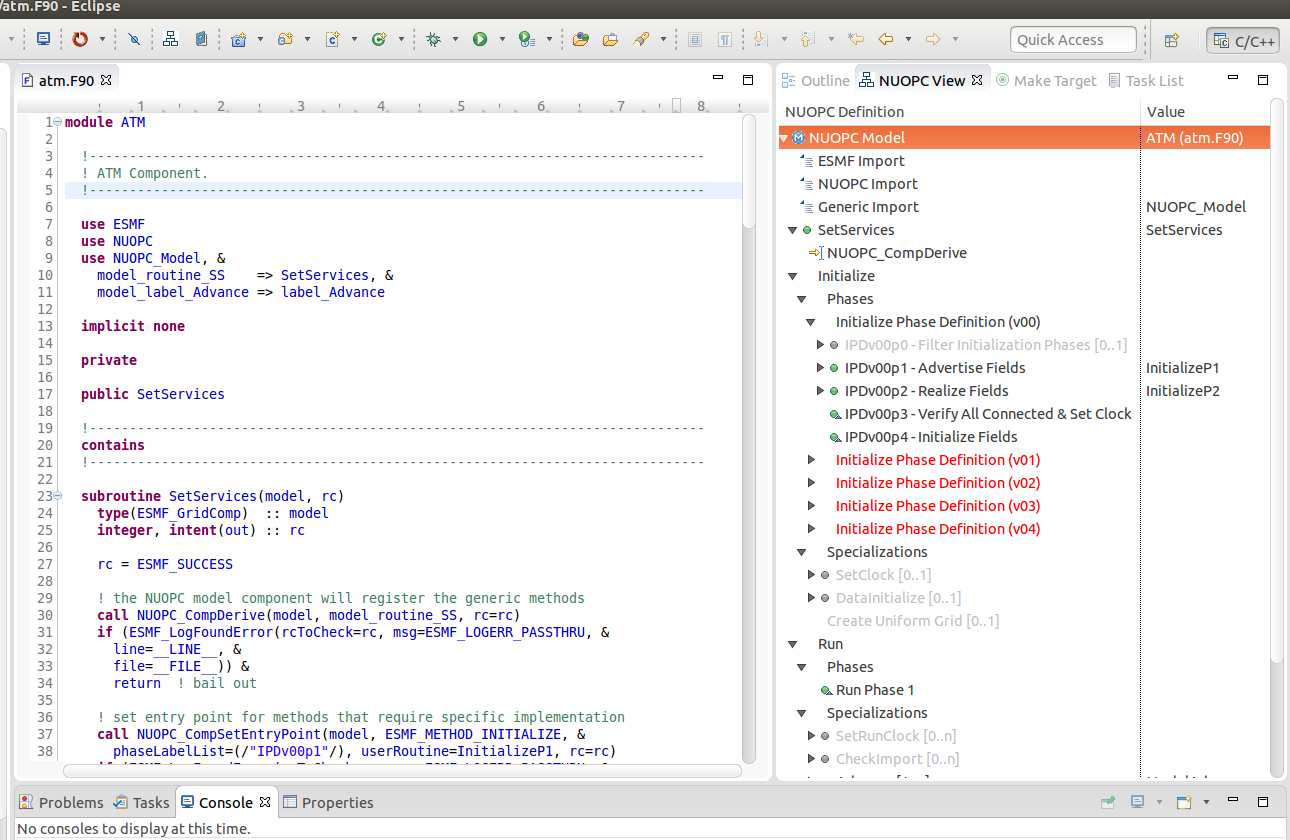
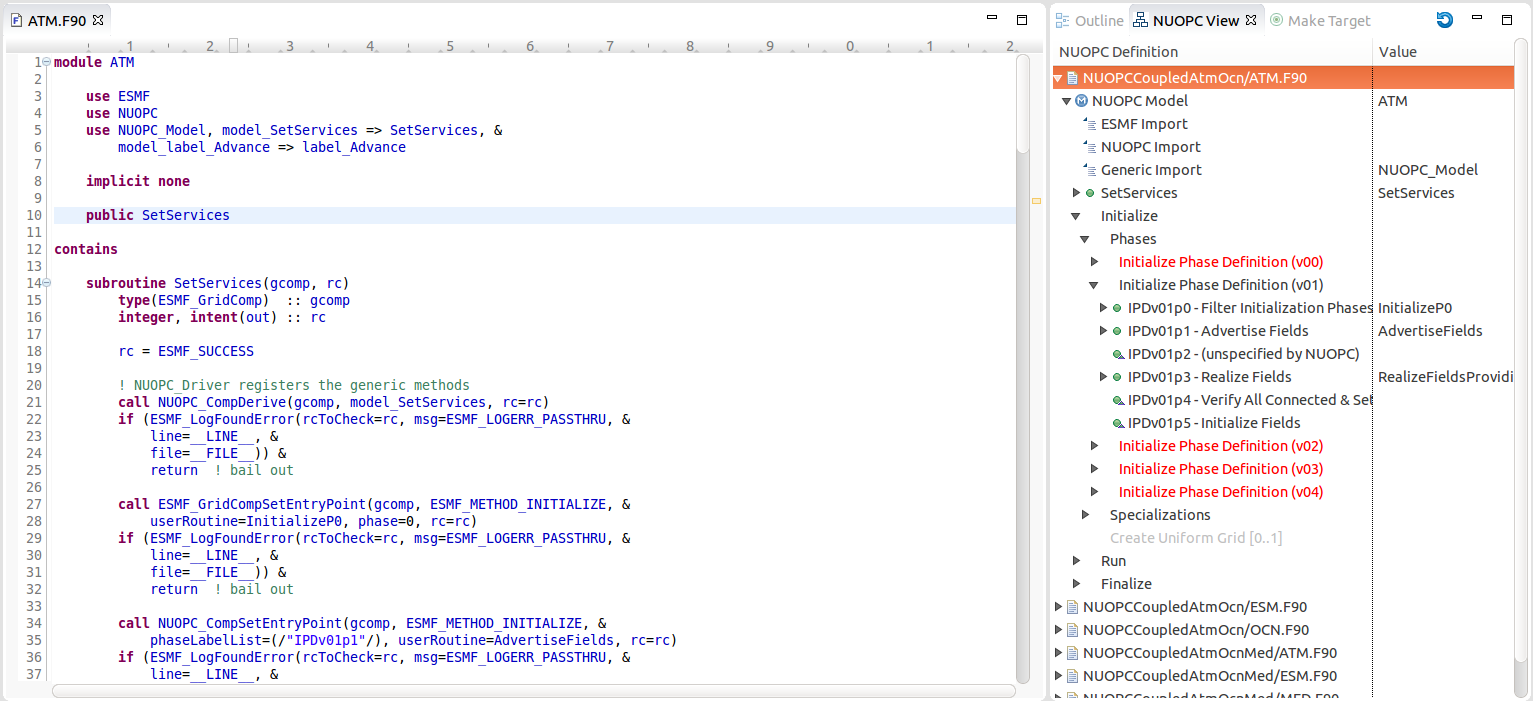
Updates to documentation

Changed region(s): [[0.0, 0.0, 1.0, 1.0], [0.8682, 0.2097, 0.9612, 0.2996]]

diff --git a/doc/howto.rst b/doc/howto.rst
@@ -151,14 +151,10 @@ The analysis does not descend into the model code itself.
 Once the higher level representation is obtained, Cupid
 is able to provide NUOPC-aware capabilities, such as basic validation
 of correct API usage and in-place code generation--i.e., weaving new code
-into the correct places of an existing source file.
+into the correct places of an existing source file. The reverse engineering 
+analysis phase happens automatically as a background process and an
+index of NUOPC components in the workspace is maintained.
 
-The reverse engineering analysis phase happens automatically as a background
-process when a file is opened that contains code for a NUOPC component.  A basic
-check is done to determine if the file is likely to be a NUOPC component. The
-check is to see that if the file contains Fortran code and if so that it
-imports (uses) one of the generic NUOPC modules (``NUOPC_Model``, 
-``NUOPC_Mediator``, or ``NUOPC_Driver``). 
 
 Show the NUOPC View
 ^^^^^^^^^^^^^^^^^^^
@@ -199,16 +195,22 @@ There are other ways to show the NUOPC View:
   * The NUOPC View can be accessed from the 
     **Window -> Show View -> Other** menu
         
-The NUOPC View will automatically synchronize with the editor that
-has the focus.  It will also refresh whenever you save the file
-active in the editor.  (The file will be re-analyzed in the background.)  
-If a file does not contain a NUOPC component, the NUOPC View will be blank.
+The NUOPC View will automatically refresh itself as files are changed
+and saved in the workspace.  It is also possible to force a refresh
+of the NUOPC View using the refresh button (blue circular arrow) in the
+top right corner of the NUOPC View.  This will first ensure that the
+Fortran analysis database is up to date and then it will rebuild the
+index of NUOPC components in the workspace.
+
 
 Elements in the NUOPC View outline
 ^^^^^^^^^^^^^^^^^^^^^^^^^^^^^^^^^^
 
-The outline shown in the NUOPC View in a tree where each element
-represents something in the source code, such as a SetServices subroutine,
+The top-level element in the NUOPC View tree are files in the workspace
+that contain code for a NUOPC component.  The first element under each 
+file indicates that type of component (Model, Driver, or Mediator).
+Sub-elements underneath the component type 
+represent something in the source code, such as a SetServices subroutine,
 a NUOPC initialization subroutine, a specialization point subroutine,
 imports of NUOPC generic modules, or calls into the NUOPC API. Many
 of the elements have small icons: a blue circle with an M maps to a
@@ -288,10 +290,7 @@ to use Cupid to generate skeleton code for missing elements.
    Cupid's reverse engineering and validation engines are based on
    static source code analysis.  The engine depends on an internal program database
    (Virtual Program Graph or VPG) provided by the Photran plugin for Eclipse. 
-   If a source file does not contain correct Fortran code, the internal
-   parser will fail and the reverse engineering analysis will not
-   be executed at all, resulting in a blank NUOPC View outline.
-   
+     
    There are limitations to static analysis giving rise to false negatives--i.e.,
    reporting a validation issue when in fact the NUOPC component will behave
    correctly.  For example, in some cases the reverse engineering engine 
@@ -309,7 +308,6 @@ to use Cupid to generate skeleton code for missing elements.
    will be correctly reverse engineered.   
    
   
-
 
 .. _generate-code:
 
@@ -537,9 +535,9 @@ documentation viewer, either click on the Show NUOPC Doc View button in the
 toolbar or from the menu select **Window -> Show View -> Other** and select
 the *NUOPC Doc* view in the list.
 
-The documentation viewer will automatically synchronize with the current outline
-in the NUOPC View.  For example, if the current component in the NUOPC View
-outline is a NUOPC Mediator component, the documentation viewer will bring that
+If you select a component in the NUOPC View, the documentation viewer will 
+synchronize with the selected item. For example, if a NUOPC Mediator component
+is selected in the NUOPC View outline, the documentation viewer will bring that
 part of the Reference Manual into focus.
 
 .. figure:: images/toolbar_docs.png
